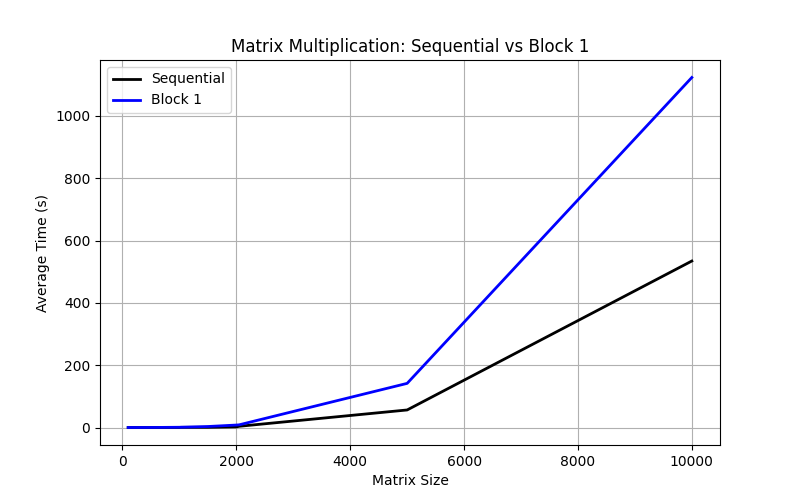
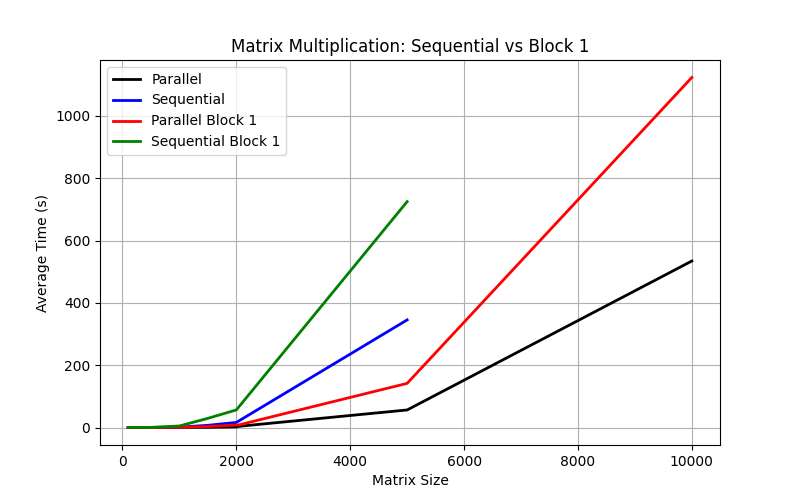
added sequential results visualization

diff --git a/lab1/task_1/plotting.py b/lab1/task_1/plotting.py
@@ -3,21 +3,27 @@ import pandas as pd
 import os
 
 # Загружаем данные
-df = pd.read_csv('results.csv')
+df_parr = pd.read_csv('results.csv')
+df_seq = pd.read_csv('seq_results.csv')
 
 # Создаём директорию для графиков
 os.makedirs("graphics", exist_ok=True)
 
 # Среднее время для последовательного алгоритма
-naive_time = df.groupby('Matrix Size', as_index=False)['Naive Time'].mean().rename(columns={'Naive Time': 'Time'})
+parr_naive_time = df_parr.groupby('Matrix Size', as_index=False)['Naive Time'].mean().rename(columns={'Naive Time': 'Time'})
+seq_naive_time = df_seq.groupby('Matrix Size', as_index=False)['Naive Time'].mean().rename(columns={'Naive Time': 'Time'})
+
 
 def plot_comparison(block_size):
     # Среднее время для выбранного блока
-    block_time = df[df['Block Size'] == block_size].groupby('Matrix Size', as_index=False)['Block Time'].mean()
+    parr_block_time = df_parr[df_parr['Block Size'] == block_size].groupby('Matrix Size', as_index=False)['Block Time'].mean()
+    seq_block_time = df_seq[df_seq['Block Size'] == block_size].groupby('Matrix Size', as_index=False)['Block Time'].mean()
     
     plt.figure(figsize=(8,5))
-    plt.plot(naive_time['Matrix Size'], naive_time['Time'], label='Sequential', linewidth=2, color='black')
-    plt.plot(block_time['Matrix Size'], block_time['Block Time'], label=f'Block {block_size}', linewidth=2, color='blue')
+    plt.plot(parr_naive_time['Matrix Size'], parr_naive_time['Time'], label='Parallel', linewidth=2, color='black')
+    plt.plot(seq_naive_time['Matrix Size'], seq_naive_time['Time'], label='Sequential', linewidth=2, color='blue')
+    plt.plot(parr_block_time['Matrix Size'], parr_block_time['Block Time'], label=f'Parallel Block {block_size}', linewidth=2, color='red')
+    plt.plot(seq_block_time['Matrix Size'], seq_block_time['Block Time'], label=f'Sequential Block {block_size}', linewidth=2, color='green')
     
     plt.xlabel('Matrix Size')
     plt.ylabel('Average Time (s)')
